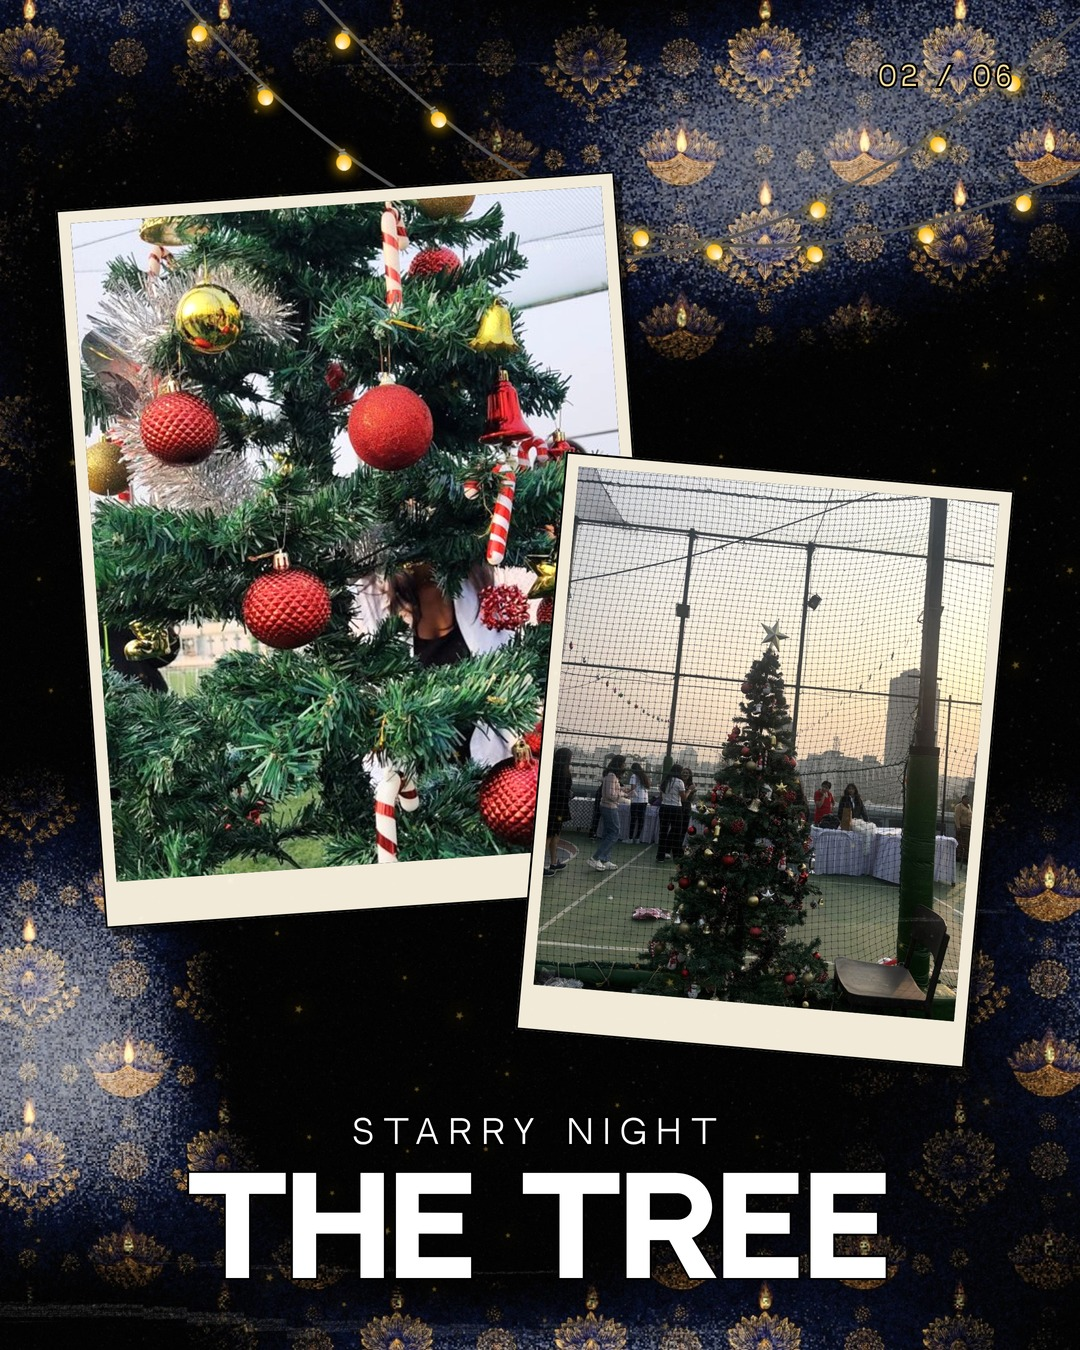
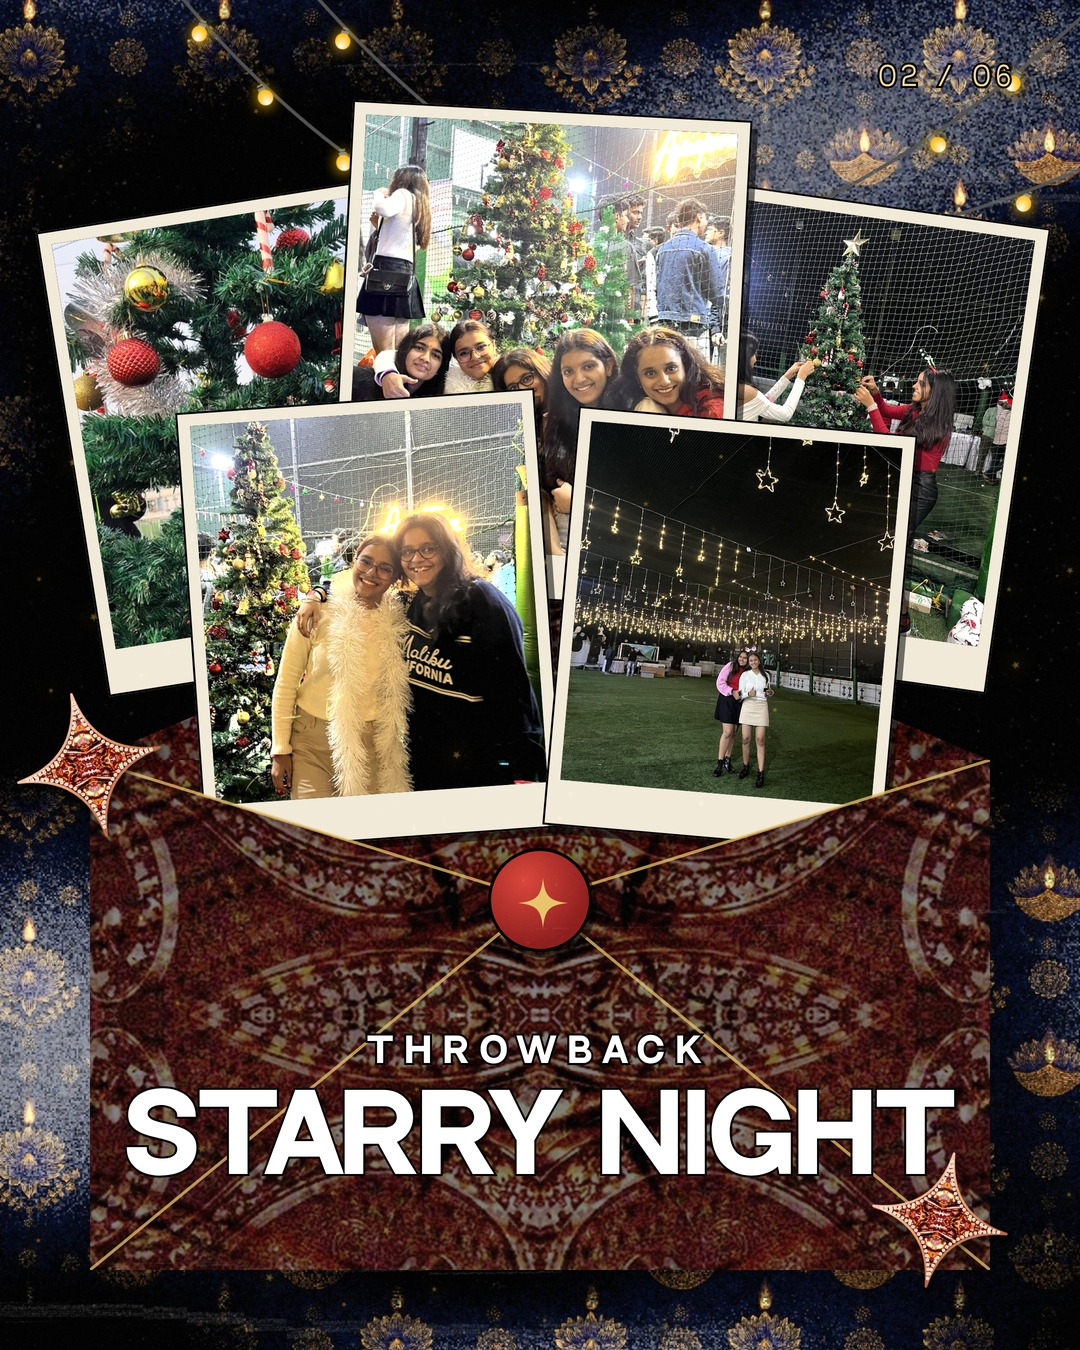
Starry Night carousel v2: envelope, gift frame, arc-text torn grid from the inspos
Claude-Session: https://claude.ai/code/session_01Hjb3YcaABw9pTEm2g2LUpe

diff --git a/scratchpad/dd_starry_carousel.py b/scratchpad/dd_starry_carousel.py
@@ -23,26 +23,113 @@ def slide(idx, frames, kicker, title, tsize, ty=1168, extra=""):
     def line(tag, txt, top, size, weight, h, ls="0"):
         parts.append(f'<div data-tag="{tag}" style="position:absolute;left:0;width:{W}px;top:{top}px;text-align:center;font-family:var(--d);font-weight:{weight};font-size:{size}px;line-height:1;'
                      f'text-transform:uppercase;white-space:nowrap;letter-spacing:{ls};{STROKE}z-index:40">{txt}</div>'); els.append((tag, 40, top, 1000, h))
-    line("kicker", kicker, ty - 50, 32, 400, 34, ".34em")
-    line("title", title, ty, tsize, 700, tsize)
+    if title:
+        line("kicker", kicker, ty - 50, 32, 400, 34, ".34em")
+        line("title", title, ty, tsize, 700, tsize)
     parts.append(f'<div data-tag="idx" style="position:absolute;right:64px;top:64px;font-family:var(--d);font-weight:400;font-size:26px;letter-spacing:.2em;color:#f6dc9a;-webkit-text-stroke:4px #000;paint-order:stroke fill;z-index:40">{idx:02d} / {N:02d}</div>')
     els.append(("idx", W - 64 - 160, 64, 160, 28))
     return "".join(parts), els
 
 
+import random
+RED = "#d1352b"
+
+
+def ptxt(tag, txt, top, size, weight=700, ls="0", left=0, w=W, h=None, anchor="center", els=None, extra=""):
+    els.append((tag, left + 40, top, w - 80, h or size))
+    return (f'<div data-tag="{tag}" style="position:absolute;left:{left}px;width:{w}px;top:{top}px;text-align:{anchor};font-family:var(--d);font-weight:{weight};font-size:{size}px;line-height:1;'
+            f'text-transform:uppercase;white-space:nowrap;letter-spacing:{ls};{STROKE}{extra}z-index:40">{txt}</div>')
+
+
+def idx_tag(idx):
+    return (f'<div data-tag="idx" style="position:absolute;right:64px;top:64px;font-family:var(--d);font-weight:400;font-size:26px;letter-spacing:.2em;color:#f6dc9a;'
+            f'-webkit-text-stroke:4px #000;paint-order:stroke fill;z-index:40">{idx:02d} / {N:02d}</div>')
+
+
+def photo_box(pi, x, y, w, h, fx=50, fy=50, clip="", z=14, rot=0, extra=""):
+    return (f'<div data-tag="frame" style="position:absolute;left:{x}px;top:{y}px;width:{w}px;height:{h}px;overflow:hidden;background:#000;z-index:{z};transform:rotate({rot}deg);{clip}{extra}">'
+            f'<img src="{st.photo_uri(pi, 1100)}" style="width:100%;height:100%;object-fit:cover;object-position:{fx}% {fy}%;filter:contrast(1.05) saturate(.95) brightness(1.08)"></div>')
+
+
+def torn(w, h, top=False, bottom=False, seed=1):
+    rnd = random.Random(seed); pts = []
+    for x in range(0, w + 1, 14):
+        pts.append((x, 6 + rnd.random() * 22 if top else 0))
+    for x in range(w, -1, -14):
+        pts.append((x, h - 6 - rnd.random() * 22 if bottom else h))
+    return "clip-path:polygon(" + ",".join(f"{a}px {b:.0f}px" for a, b in pts) + ");"
+
+
+def envelope_slide():
+    els, parts = [], [st.ground()]
+    TEX = f"background:url({dd.uri('copper_texture.jpg')}) center/cover;"
+    top_y, ap, bot = 760, 900, 1270
+    # back, open top flap, photos, front panels, seal
+    parts.append(f'<div data-tag="frame" style="position:absolute;left:90px;top:{top_y}px;width:900px;height:{bot - top_y}px;{TEX}filter:brightness(.45);z-index:9"></div>')
+    parts.append(f'<div data-tag="frame" style="position:absolute;left:90px;top:{top_y - 190}px;width:900px;height:190px;{TEX}filter:brightness(.38);clip-path:polygon(0 100%,100% 100%,50% 0);z-index:9"></div>')
+    for (pi, x, y, w, h, rot, z, fx, fy) in [(2, 70, 200, 380, 470, -9, 12, 50, 40), (8, 340, 110, 400, 490, 3, 13, 50, 55), (15, 640, 200, 380, 470, 8, 12, 50, 55), (7, 190, 400, 360, 440, -4, 14, 50, 45), (12, 560, 420, 340, 420, 5, 14, 50, 55)]:
+        parts.append(frame(pi, x, y, w, h, rot, z, fx, fy))
+    for tag, poly in (("l", "0 0,50% 140px,0 100%"), ("r", "100% 0,50% 140px,100% 100%"), ("b", "0 100%,50% 140px,100% 100%")):
+        parts.append(f'<div data-tag="frame" style="position:absolute;left:90px;top:{top_y}px;width:900px;height:{bot - top_y}px;{TEX}filter:brightness(.5) saturate(.75);clip-path:polygon({poly});z-index:20"></div>')
+    parts.append(f'<svg data-tag="frame" style="position:absolute;left:90px;top:{top_y}px;width:900px;height:{bot - top_y}px;z-index:21" viewBox="0 0 900 {bot - top_y}"><path d="M0 0L450 140L0 {bot - top_y}M900 0L450 140L900 {bot - top_y}M0 {bot - top_y}L450 140L900 {bot - top_y}" fill="none" stroke="#e8c46a" stroke-opacity=".75" stroke-width="3"/></svg>')
+    parts.append(f'<div data-tag="seal" style="position:absolute;left:{540 - 52}px;top:{ap - 52}px;width:104px;height:104px;border-radius:50%;background:radial-gradient(circle at 35% 30%,#d9453a,#8e1c1c 70%);border:3px solid #000;box-shadow:5px 6px 0 rgba(0,0,0,.55);z-index:26">'
+                 f'<div style="position:absolute;inset:0">{st.sparkle(26, 26, 52)}</div></div>')
+    parts.append(ptxt("kicker", "Throwback", 1034, 34, 700, ".34em", els=els))
+    parts.append(ptxt("title", "Starry Night", 1086, 104, 700, els=els))
+    parts.append(f'<div data-tag="star" style="position:absolute;left:14px;top:690px;z-index:40">{cp.star(150, -14)}</div>')
+    parts.append(f'<div data-tag="star" style="position:absolute;left:870px;top:1150px;z-index:40">{cp.star(140, 12)}</div>')
+    parts.append(idx_tag(2))
+    return "".join(parts), els
+
+
+def gift_slide():
+    els, parts = [], [st.ground()]
+    parts.append('<svg width="0" height="0" style="position:absolute"><filter id="rough" x="-5%" y="-5%" width="110%" height="110%"><feTurbulence type="fractalNoise" baseFrequency=".045" numOctaves="2" seed="7"/>'
+                 '<feDisplacementMap in="SourceGraphic" scale="11"/></filter></svg>')
+    X0, X1, Y0, Y1, XM, YM = 96, 984, 400, 1236, 540, 818
+    cells = [(12, X0, Y0, XM - X0, YM - Y0, 50, 55), (11, XM, Y0, X1 - XM, YM - Y0, 50, 50), (15, X0, YM, XM - X0, Y1 - YM, 50, 50), (9, XM, YM, X1 - XM, Y1 - YM, 40, 40)]
+    for pi, x, y, w, h, fx, fy in cells:
+        parts.append(photo_box(pi, x, y, w, h, fx, fy, z=12))
+    sw = 22
+    parts.append(f'<svg data-tag="frame" style="position:absolute;left:0;top:0;width:{W}px;height:{H}px;z-index:20;filter:url(#rough)" viewBox="0 0 {W} {H}" fill="none" stroke="{RED}" stroke-width="{sw}" stroke-linecap="round" stroke-linejoin="round">'
+                 f'<rect x="{X0}" y="{Y0}" width="{X1 - X0}" height="{Y1 - Y0}"/><path d="M{XM} {Y0}V{Y1}M{X0} {YM}H{X1}"/>'
+                 f'<path d="M{XM} {Y0}C{XM - 60} {Y0 - 40} {XM - 190} {Y0 - 110} {XM - 190} {Y0 - 40}C{XM - 190} {Y0 + 10} {XM - 80} {Y0 - 6} {XM} {Y0}"/>'
+                 f'<path d="M{XM} {Y0}C{XM + 60} {Y0 - 40} {XM + 190} {Y0 - 110} {XM + 190} {Y0 - 40}C{XM + 190} {Y0 + 10} {XM + 80} {Y0 - 6} {XM} {Y0}"/>'
+                 f'<path d="M{XM - 10} {Y0 - 8}L{XM - 70} {Y0 + 60}M{XM + 10} {Y0 - 8}L{XM + 70} {Y0 + 60}"/></svg>')
+    parts.append(ptxt("title", "Merry Christmas", 130, 84, 700, els=els))
+    parts.append(f'<div data-tag="star" style="position:absolute;left:30px;top:236px;z-index:40">{cp.star(110, -10)}</div>')
+    parts.append(f'<div data-tag="star" style="position:absolute;left:920px;top:1210px;z-index:41">{cp.star(110, 10)}</div>')
+    parts.append(ptxt("sub", "Starry Night &middot; Christmas carnival", 1270, 30, 400, ".1em", els=els))
+    parts.append(idx_tag(3))
+    return "".join(parts), els
+
+
+def arc_slide():
+    els, parts = [], [st.ground()]
+    cw, ch = 400, 440
+    for pi, x, y, top_t, bot_t, seed, fx, fy in [(6, 120, 150, False, True, 3, 62, 50), (16, 560, 150, False, True, 5, 50, 45), (1, 120, 650, True, False, 8, 50, 40), (8, 560, 650, True, False, 11, 50, 55)]:
+        parts.append(photo_box(pi, x, y, cw, ch, fx, fy, clip=torn(cw, ch, top_t, bot_t, seed), z=12, extra="filter:drop-shadow(0 0 0 #000);"))
+    path = "M 30 905 C 260 690 430 650 640 690 C 860 735 980 560 1000 150"
+    parts.append(f'<svg data-tag="arc" style="position:absolute;left:0;top:0;width:{W}px;height:{H}px;z-index:30" viewBox="0 0 {W} {H}"><defs><path id="ap" d="{path}"/></defs>'
+                 f'<text font-family="NeutralFace,var(--d)" font-weight="700" font-size="46" letter-spacing="14" fill="#fff" stroke="#000" stroke-width="7" paint-order="stroke fill" style="font-family:var(--d)">'
+                 f'<textPath href="#ap" startOffset="3%">YOU HAD TO BE THERE</textPath></text></svg>')
+    els.append(("arc", 30, 150, 980, 760))
+    parts.append(ptxt("title", "@ngo.aquaterra", 1170, 34, 400, ".12em", left=300, w=480, els=els))
+    parts.append(f'<div data-tag="star" style="position:absolute;left:52px;top:1090px;z-index:40">{cp.star(170, -8)}</div>')
+    parts.append(f'<svg data-tag="arrow" style="position:absolute;left:760px;top:1140px;width:200px;height:90px;z-index:40" viewBox="0 0 200 90" fill="none" stroke="{GOLD}" stroke-width="4" stroke-linecap="round" stroke-dasharray="3 12"><path d="M8 52C50 30 100 70 168 46"/></svg>')
+    parts.append(f'<svg data-tag="arrowhead" style="position:absolute;left:900px;top:1160px;width:60px;height:60px;z-index:40" viewBox="0 0 60 60"><path d="M6 8L50 28L14 52Z" fill="{GOLD}" transform="rotate(-8 30 30)"/></svg>')
+    parts.append(idx_tag(4))
+    return "".join(parts), els
+
+
 def slides():
-    s = []
-    s.append(slide(2, [frame(2, 80, 190, 560, 720, -4, 12, 50, 40), frame(11, 540, 470, 450, 580, 5, 13, 50, 55)], "Starry Night", "The tree", 130))
-    s.append(slide(3, [frame(7, 80, 130, 400, 470, -4, 12, 50, 45), frame(14, 590, 150, 400, 470, 4, 13, 50, 45),
-                       frame(8, 100, 630, 400, 420, 3, 14, 50, 55), frame(9, 580, 650, 400, 420, -3, 15, 50, 40)], "Starry Night", "Together", 110, 1176))
-    s.append(slide(4, [frame(12, 70, 170, 460, 610, -3, 12, 50, 50), frame(10, 560, 250, 450, 540, 4, 13, 50, 50), frame(15, 330, 670, 420, 380, -2, 14, 50, 50)],
-                   "Starry Night", "Under the lights", 90))
-    s.append(slide(5, [frame(3, 60, 170, 500, 660, -4, 12, 50, 35), frame(4, 580, 190, 430, 400, 5, 13, 50, 50), frame(5, 560, 620, 400, 480, -3, 14, 50, 40)],
-                   "Starry Night", "On the decks", 100))
+    out = [envelope_slide(), gift_slide(), arc_slide()]
+    out.append(slide(5, [frame(3, 60, 170, 500, 660, -4, 12, 50, 35), frame(4, 580, 190, 430, 400, 5, 13, 50, 50), frame(5, 560, 620, 400, 480, -3, 14, 50, 40)],
+                     "Starry Night", "On the decks", 100))
     ss = 150
     star = f'<div data-tag="star" style="position:absolute;left:{(W - ss) // 2}px;top:40px;z-index:40">{cp.star(ss, 0)}</div>'
-    s.append(slide(6, [frame(0, 70, 230, 560, 520, -3, 12, 50, 50), frame(1, 520, 330, 480, 640, 4, 13, 50, 50)], "Throwback", "Starry Night", 114, 1100, star))
-    return s
+    out.append(slide(6, [frame(0, 70, 230, 560, 520, -3, 12, 50, 50), frame(1, 520, 330, 480, 640, 4, 13, 50, 50)], "Throwback", "Starry Night", 114, 1100, star))
+    return out
 
 
 async def main():

diff --git a/brain/DISCO_DIWALI.md b/brain/DISCO_DIWALI.md
@@ -130,3 +130,4 @@ Always LOOK at the PNG before it ships (CLAUDE.md sec 3).
 Feed 1080x1350. User: "make a throwback post for Starry Night, use disco diwali branding, use the inspos", photos from their Drive folder (`SN 24` 18 frames, `SN 25` 49 party frames; SN 24 chosen because it is the Christmas-tree edition and matches the Christmas inspos). Mechanism from inspo 1: a Christmas TREE of tilted print frames (rows 1-2-3-4-5, 15 photos) with the red-copper star on top, title underneath. Diya ground, string lights, gold dust, grain, NeutralFace white-with-stroke type. Deliberately NOT used: the DISCO DIWALI lockup, mask and LIVE badge (other event; LIVE false on a throwback). Facts: "Starry Night", "Throwback", "Christmas carnival", "December 2024" only. Lessons: a 146px title at 12 letters ran off both edges (the gate printed CLEAN, the eye caught it), 114px fits; `top` is a reserved global in browser JS (a `const top` in a script tag kills the whole script silently, giving a blank render). SN 25 (Dec 2025) is unused: say if a second post is wanted. Consent caveat: apparent minors, no consent record.
 
 **Carousel (2026-11-27)** `scratchpad/dd_starry_carousel.py`, JPEGs in `sample_outputs/starry_throwback/carousel/`: 6 slides, slide 1 the tree poster, 2-5 themed frame layouts (the tree / together / under the lights / on the decks), 6 the group shots. Lessons: gold index text vanished on the diya pattern until given a black stroke; a kicker line 20px under rotated frames needs the rotated bbox, not the CSS one.
+**Carousel v2 (2026-11-27, user: "use these inspos as well")**: slides now follow all four inspos: 1 the tree of frames, 2 photo envelope (copper-texture panels, wax seal), 3 gift-ribbon 2x2 (rough red crayon stroke via feTurbulence), 4 arc text over a torn-edge 2x2 with a gold dashed swipe arrow, 5 on the decks, 6 closer. Adaptations: Santa/snowman cartoons, fortune cookie and knit ground not used (no real assets, format palette); the inspo arc copy became YOU HAD TO BE THERE. Lesson: the raw copper texture on a big panel is a kaleidoscope that kills type, so darken it (brightness .5) behind any title.
